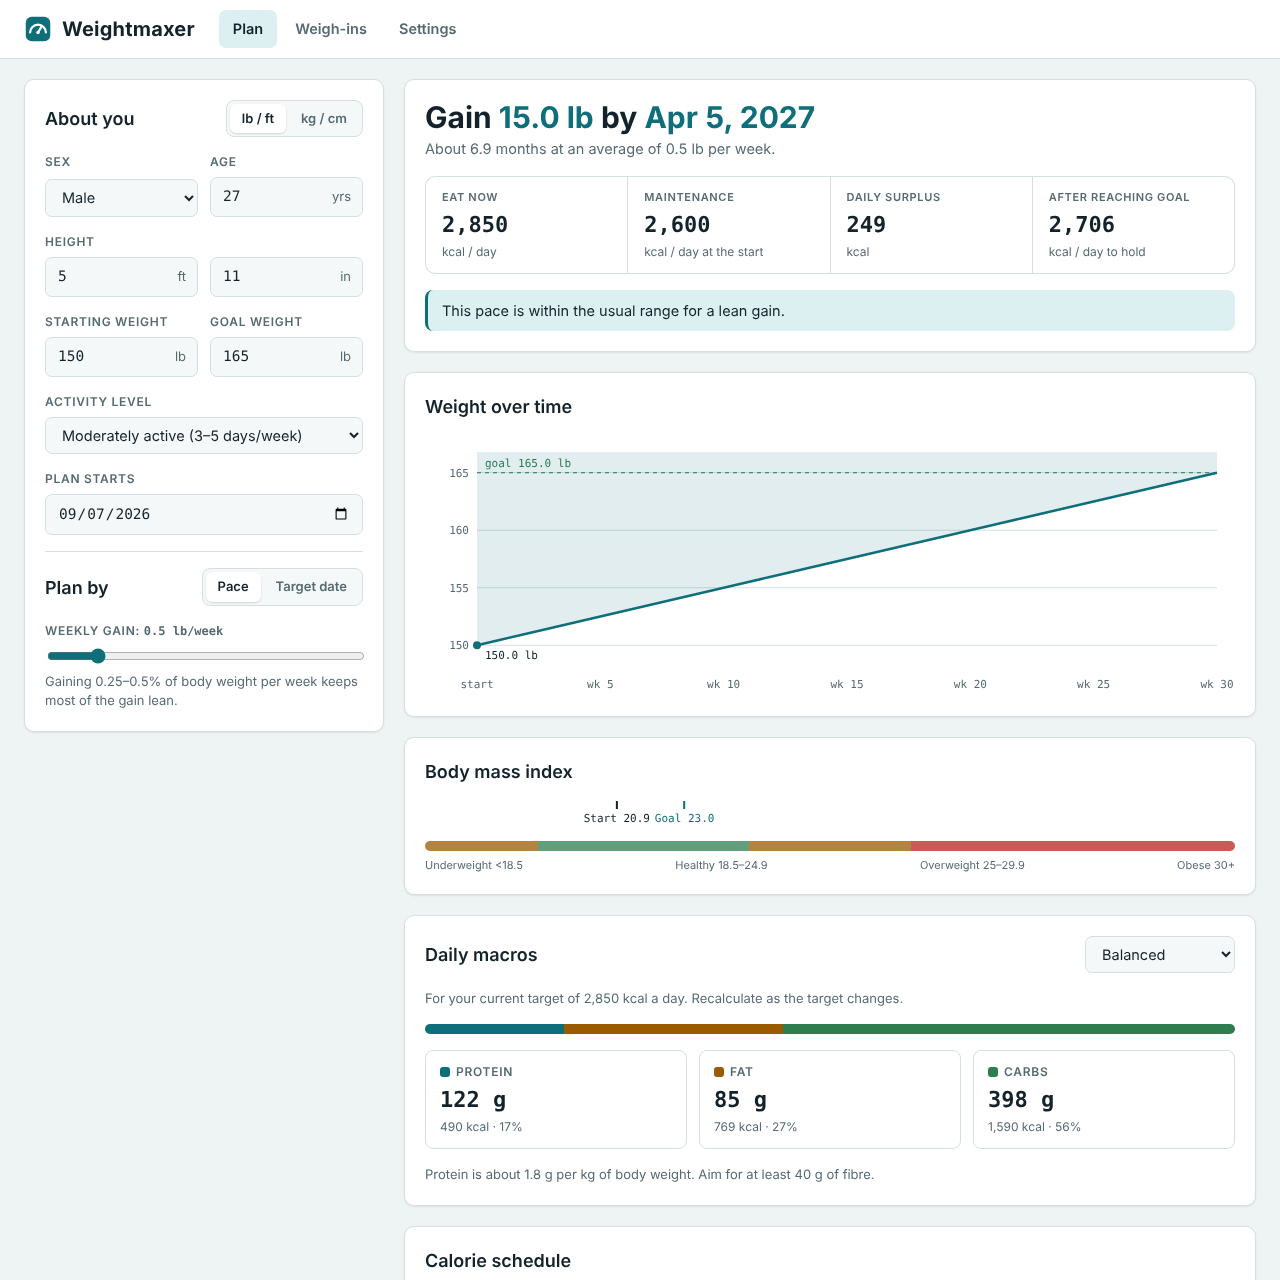
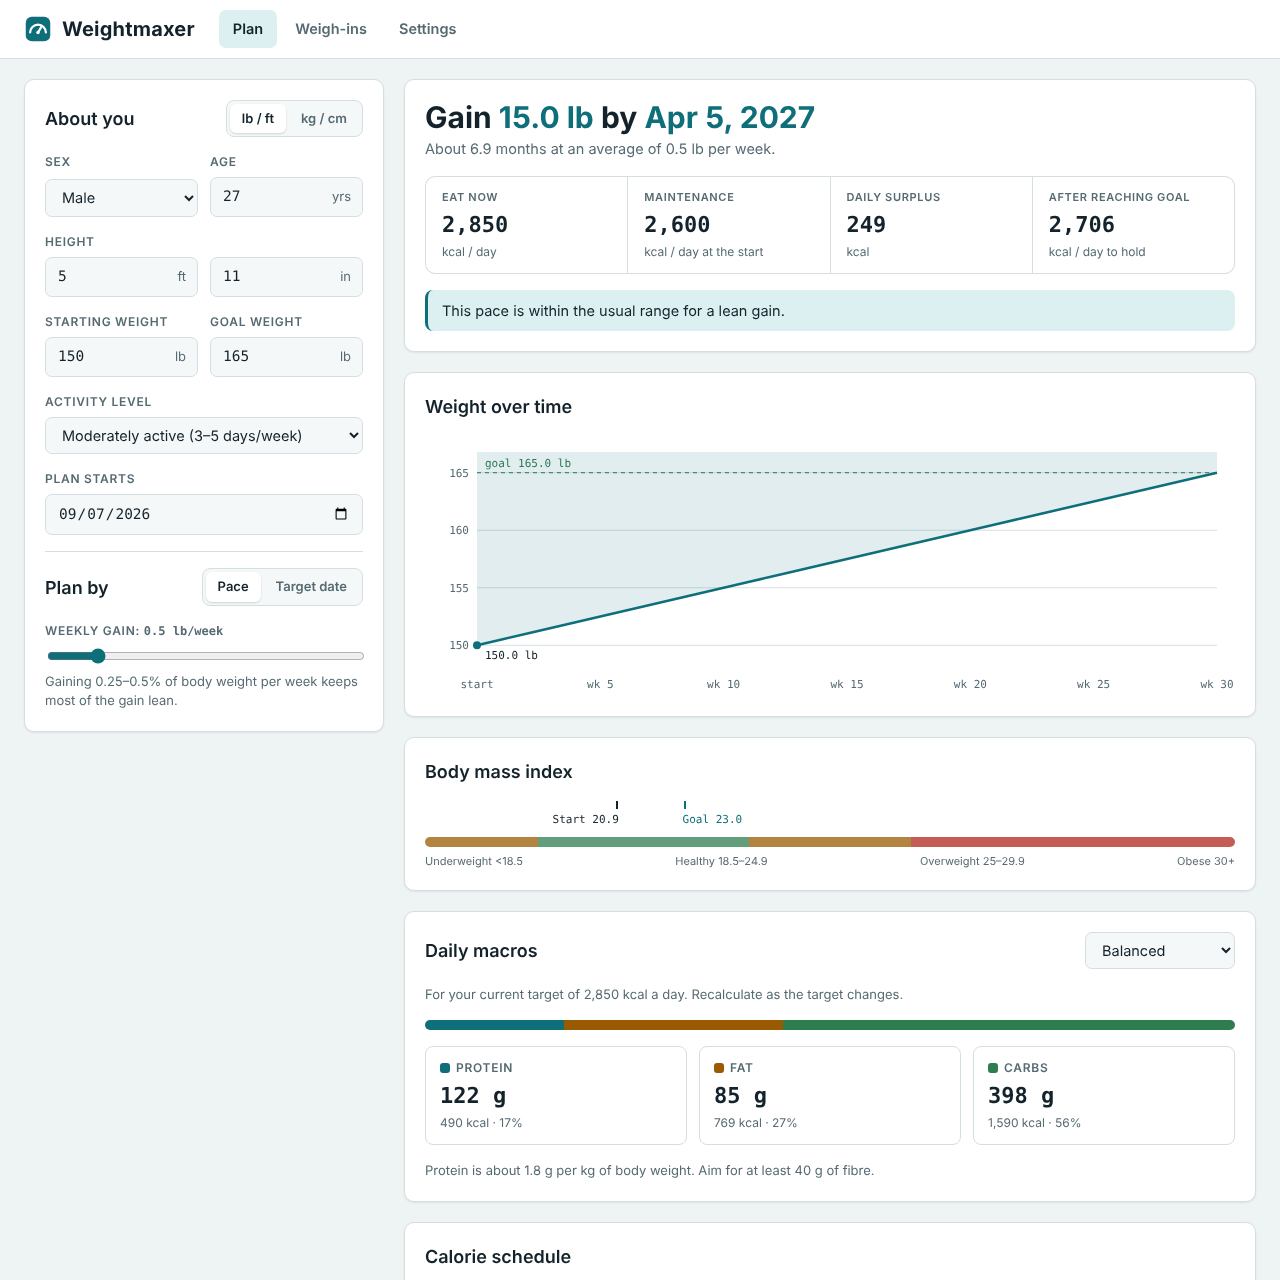
Fix the website layout on phones
On a portrait iPhone the page was wider than the screen: the Settings tab
was cut off, tabs wrapped, date fields stuck out of their cards and the
BMI labels overlapped. Add phone breakpoints (two-row top bar, 16px
inputs, single-column details, a schedule that fits without the Burn
column, stacked macros), iOS date-field rules, and BMI labels that turn
outwards when close. A new 390px browser test fails on any of these.

Claude-Session: https://claude.ai/code/session_01AkZzWFsDzWiP4oMFcRPxYM

Changed region(s): [[0.3125, 0.625, 0.9688, 1.0]]

diff --git a/web/app.css b/web/app.css
@@ -46,7 +46,7 @@ h2 { font-family: var(--font-display); font-weight: 600; font-size: 18px; margin
 .brand-name { font-family: var(--font-display); font-weight: 700; font-size: 20px; letter-spacing: 0.01em; }
 .tabs { display: flex; gap: 4px; }
 .tabs button {
-  font: inherit; font-weight: 600; border: 0; background: transparent; color: var(--muted);
+  font: inherit; font-weight: 600; white-space: nowrap; border: 0; background: transparent; color: var(--muted);
   padding: 8px 14px; border-radius: 7px; cursor: pointer;
 }
 .tabs button:hover { background: var(--sunken); color: var(--fg); }
@@ -86,6 +86,7 @@ button:focus-visible, input:focus-visible, select:focus-visible { outline: 2px s
 .row { display: grid; grid-template-columns: 1fr 1fr; gap: 12px; }
 .inp { position: relative; }
 .inp input, select, input[type="date"] {
+  min-width: 0;
   width: 100%; font: inherit; font-family: var(--font-mono); font-size: 14.5px;
   padding: 8px 44px 8px 12px; border: 1px solid var(--line); border-radius: 7px; background: var(--sunken); color: var(--fg);
 }
@@ -135,6 +136,8 @@ th { text-align: left; font-size: 11.5px; text-transform: uppercase; letter-spac
 td { padding: 7px 10px; border-bottom: 1px solid var(--line); font-family: var(--font-mono); white-space: nowrap; }
 td:first-child, th:first-child { padding-left: 0; }
 tr:last-child td { border-bottom: 0; }
+.goal-row td { font-weight: 600; color: var(--good); }
+.unit-head { display: none; }
 .n { text-align: right; }
 
 .log-row { display: grid; grid-template-columns: 1fr auto auto auto; gap: 16px; align-items: center; padding: 8px 0; border-bottom: 1px solid var(--line); font-family: var(--font-mono); font-variant-numeric: tabular-nums; }
@@ -147,9 +150,13 @@ tr:last-child td { border-bottom: 0; }
 .bmi-scale { display: grid; gap: 6px; }
 .bmi-bar { height: 10px; border-radius: 5px; display: flex; overflow: hidden; }
 .bmi-bar span { height: 100%; opacity: .75; }
-.bmi-marks { position: relative; height: 34px; }
-.bmi-mark { position: absolute; top: 0; transform: translateX(-50%); font-family: var(--font-mono); font-size: 11px; text-align: center; white-space: nowrap; }
-.bmi-mark::before { content: ""; display: block; width: 2px; height: 8px; margin: 0 auto 2px; background: currentColor; }
+.bmi-marks { position: relative; height: 30px; }
+.bmi-mark { position: absolute; top: 0; width: 0; height: 100%; font-family: var(--font-mono); font-size: 11px; color: var(--fg); }
+.bmi-mark .tick { position: absolute; left: -1px; top: 0; width: 2px; height: 8px; background: currentColor; }
+.bmi-mark .lab { position: absolute; top: 11px; white-space: nowrap; }
+.bmi-mark .lab[data-align="center"] { left: 0; transform: translateX(-50%); }
+.bmi-mark .lab[data-align="start"] { left: -2px; }
+.bmi-mark .lab[data-align="end"] { right: -2px; }
 .bmi-legend { display: flex; justify-content: space-between; font-size: 11px; color: var(--muted); gap: 8px; flex-wrap: wrap; }
 
 .kv { display: grid; grid-template-columns: 160px minmax(0, 1fr); gap: 12px; }
@@ -175,3 +182,40 @@ tr:last-child td { border-bottom: 0; }
 #macro { width: auto; min-width: 150px; }
 a.btn { text-decoration: none; display: inline-block; }
 label.btn { display: inline-block; }
+
+/* iPhone and iPad Safari: date fields have a built-in minimum width and centred text,
+   which pushed them out of their cards and widened the page. */
+@supports (-webkit-touch-callout: none) {
+  input[type="date"] { -webkit-appearance: none; appearance: none; display: block; min-height: 2.6em; }
+  input[type="date"]::-webkit-date-and-time-value { text-align: left; }
+}
+
+/* Phones (portrait) */
+@media (max-width: 640px) {
+  .topbar { flex-wrap: wrap; gap: 8px 12px; padding: 10px max(16px, env(safe-area-inset-right, 0px)) 8px max(16px, env(safe-area-inset-left, 0px)); }
+  .tabs { width: 100%; }
+  .tabs button { flex: 1 1 0; padding: 8px 6px; }
+  main { padding: 16px max(16px, env(safe-area-inset-right, 0px)) 32px max(16px, env(safe-area-inset-left, 0px)); }
+  .banner { margin: 12px 16px 0; }
+  .grid, .results, .stack { gap: 16px; }
+  .card { padding: 16px; gap: 14px; }
+  .headline .big { font-size: 26px; }
+  .inp input, select, input[type="date"] { font-size: 16px; } /* 16px stops Safari zooming in on focus */
+  .kv { grid-template-columns: minmax(0, 1fr); gap: 2px; }
+  .log-row { grid-template-columns: minmax(0, 1fr) auto auto auto; gap: 10px; font-size: 13.5px; }
+  .log-row .delta { min-width: 0; }
+  .stat { padding: 10px 12px; }
+  .stat .v { font-size: 20px; }
+}
+@media (max-width: 480px) {
+  .burn { display: none; }
+  .unit { display: none; }
+  .unit-head { display: inline; }
+  th, td { padding: 7px 6px; font-size: 13px; }
+  th { font-size: 10.5px; }
+  .bmi-legend { display: grid; grid-template-columns: 1fr 1fr; gap: 2px 8px; }
+  .bmi-legend span:nth-child(even) { text-align: right; }
+  .macros { grid-template-columns: minmax(0, 1fr); }
+  .macro { grid-template-columns: auto 1fr auto; align-items: baseline; gap: 10px; }
+  .macro .g { font-size: 18px; }
+}

diff --git a/web/app.js b/web/app.js
@@ -150,7 +150,7 @@
   function clearPlan(head, sub) {
     $("head").textContent = head;
     $("subhead").textContent = sub || "";
-    ["stats", "alerts", "table"].forEach((i) => ($(i).innerHTML = ""));
+    ["stats", "alerts", "table", "schedule-goal"].forEach((i) => ($(i).innerHTML = ""));
     $("chart").innerHTML = "";
     lastSim = null;
     $("macro-card").hidden = true;
@@ -273,12 +273,15 @@
     const rows = w.filter((r, i) => i % step === 0 && !r.end);
     const last = w[w.length - 1];
     const s = startDate();
-    let h = `<thead><tr><th>Week</th><th>Date</th><th class="n">Weight</th><th class="n">Eat</th><th class="n">Burn</th></tr></thead><tbody>`;
+    // The Burn column is hidden on phones (.burn) so Eat always fits on screen.
+    let h = `<thead><tr><th>Week</th><th>Date</th><th class="n">Weight</th><th class="n">Eat<span class="unit-head"> kcal</span></th><th class="n burn">Burn</th></tr></thead><tbody>`;
     rows.forEach((r) => {
-      h += `<tr><td>${r.week}</td><td>${fmtDate(addDays(s, r.week * 7))}</td><td class="n">${fmtW(r.kg)}</td><td class="n">${fmtN(r.intake)} kcal</td><td class="n">${fmtN(r.tdee)} kcal</td></tr>`;
+      h += `<tr><td>${r.week}</td><td>${fmtDate(addDays(s, r.week * 7))}</td><td class="n">${fmtW(r.kg)}</td><td class="n">${fmtN(r.intake)}<span class="unit"> kcal</span></td><td class="n burn">${fmtN(r.tdee)} kcal</td></tr>`;
     });
-    h += `<tr><td>${last.week.toFixed(1)}</td><td>${fmtDate(addDays(s, Math.round(last.week * 7)))}</td><td class="n">${fmtW(last.kg)}</td><td class="n" colspan="2">Goal reached · maintain at ${fmtN(last.tdee)} kcal</td></tr>`;
+    const goalDay = addDays(s, Math.round(last.week * 7));
+    h += `<tr class="goal-row"><td>${last.week.toFixed(1)}</td><td>${fmtDate(goalDay)}</td><td class="n">${fmtW(last.kg)}</td><td class="n">${fmtN(last.tdee)}<span class="unit"> kcal</span></td><td class="n burn">${fmtN(last.tdee)} kcal</td></tr>`;
     $("table").innerHTML = h + "</tbody>";
+    $("schedule-goal").textContent = `Goal reached ${fmtDate(goalDay)}. From then on, eat about ${fmtN(last.tdee)} kcal a day to stay at ${fmtW(last.kg)}.`;
   }
 
   function niceStep(raw) {
@@ -330,9 +333,21 @@
     const pos = (b) => Math.min(100, Math.max(0, ((b - min) / (max - min)) * 100));
     const bands = [[15, 18.5, "var(--warn)"], [18.5, 25, "var(--good)"], [25, 30, "var(--warn)"], [30, 40, "var(--bad)"]];
     $("bmi-bar").innerHTML = bands.map(([a, b, c]) => `<span style="width:${pos(b) - pos(a)}%;background:${c}"></span>`).join("");
-    $("bmi-marks").innerHTML =
-      `<div class="bmi-mark" style="left:${pos(now)}%">Start ${now.toFixed(1)}</div>` +
-      `<div class="bmi-mark" style="left:${pos(goal)}%;color:var(--accent)">Goal ${goal.toFixed(1)}</div>`;
+    // Labels sit centred under their tick, but turn outwards when the two are
+    // close together or near an edge, so they never overlap or get cut off.
+    const width = $("bmi-marks").clientWidth || 600;
+    const marks = [{ b: now, text: `Start ${now.toFixed(1)}`, color: "" }, { b: goal, text: `Goal ${goal.toFixed(1)}`, color: "color:var(--accent);" }];
+    const close = (Math.abs(pos(now) - pos(goal)) / 100) * width < 96;
+    const [lo, hi] = now <= goal ? marks : [marks[1], marks[0]];
+    lo.align = close ? "end" : "center";
+    hi.align = close ? "start" : "center";
+    for (const m of marks) {
+      const px = (pos(m.b) / 100) * width;
+      if (px < 48) m.align = "start";
+      else if (width - px < 48) m.align = "end";
+    }
+    $("bmi-marks").innerHTML = marks.map((m) =>
+      `<div class="bmi-mark" style="${m.color}left:${pos(m.b)}%"><span class="tick"></span><span class="lab" data-align="${m.align}">${m.text}</span></div>`).join("");
   }
 
   // ---------- weigh-ins ----------

diff --git a/web/index.html b/web/index.html
@@ -141,6 +141,7 @@
           <h2>Calorie schedule</h2>
           <p class="hint" id="schedule-hint">Your body burns less as you get lighter, so the daily target drops over time. Recheck it every few weeks.</p>
           <div class="table-wrap"><table id="table"></table></div>
+          <p class="hint" id="schedule-goal"></p>
         </div>
         <p class="note"><strong>How this works.</strong> Calories burned at rest come from the Mifflin–St Jeor equation, multiplied by your activity level. A pound of body fat is treated as about 3,500 kcal (7,700 kcal per kg). Daily intake never goes below the lowest daily calories you set (1,200 kcal for women or 1,500 kcal for men unless you change it, and never below 800); if the plan would need less, the timeline is stretched instead. Eating less than the standard minimum is best done with a doctor's supervision. Real results vary with water weight, muscle, sleep and how accurately food is tracked. This is an estimate, not medical advice. Talk to a doctor before a large or fast weight change. Macro targets use common sports-nutrition ranges: protein of 1.6–2.2 g per kg, fat of at least 0.6 g per kg, and fibre of 14 g per 1,000 kcal.</p>
       </section>

diff --git a/DEVELOPMENT_HANDOFF.md b/DEVELOPMENT_HANDOFF.md
@@ -96,3 +96,14 @@ Read [`AGENTS.md`](AGENTS.md) first. This file records the current state for the
   `scripts/build_site.py`, CI deployment to Pages after all checks, docs and tests.
 - Same approvals as the task above (push, pull request, merge after checks); the request
   itself asked for publication on GitHub Pages. No `VERSION` bump: website-only change.
+
+### 2026-11-05: phone layout fixes for the website
+
+- Reported from an iPhone: page wider than the screen, Settings tab cut off, tabs wrapping,
+  date fields sticking out of their cards, overlapping BMI labels.
+- Fixed in `web/app.css` and `web/app.js`: phone breakpoints (two-row top bar, 16 px inputs,
+  single-column details, schedule without the Burn column, stacked macros), iOS date-field
+  rules, and BMI labels that turn outwards when close. A 390 px browser test fails on any
+  side-scrolling, cut-off control, wrapped tab, overlapping label or small text field.
+- The Windows app picks up the same CSS in its next release; no `VERSION` bump for this
+  website fix. Same approvals as above (push, pull request, merge after checks).

diff --git a/AGENTS.md b/AGENTS.md
@@ -95,6 +95,12 @@ node tests/browser/screenshots.cjs                        # recapture docs/image
   asleep counts toward the five-minute interval.
 - Keep update checks within GitHub's 60 unauthenticated requests per hour per IP:
   ETag caching, pause on low remaining limit, honour `Retry-After`.
+- The website is used on phones. Keep it working at 390 px wide: the browser test
+  "phone width" fails if the page or a table needs side-scrolling, a tab wraps, a control
+  sticks out of its card, the BMI labels overlap, or a text field is under 16 px (Safari
+  zooms in on focus). iPhone Safari date fields have a built-in minimum width; keep the
+  `@supports (-webkit-touch-callout: none)` rules in `web/app.css`. Headless Chromium can't
+  reproduce that, so check real-phone reports against screenshots.
 - The page scrolls as a whole. Don't add nested vertical scroll areas; the
   browser test fails on them.
 - Screenshots use fictional data only and must be recaptured in the same pull

diff --git a/README.md b/README.md
@@ -47,7 +47,7 @@ Get **`Weightmaxer-win-x64.zip`** from the [latest release](https://github.com/T
 
 All versions, including any preview builds, are on the [releases page](https://github.com/TechSavage1989/weightmaxer/releases).
 
-**No install needed:** the [web version](https://techsavage1989.github.io/weightmaxer/) has the same planner, macros and weigh-in log in any modern browser, on any device. It saves your data in that browser only; use **Settings › Export data** to keep a copy or move it to another device.
+**No install needed:** the [web version](https://techsavage1989.github.io/weightmaxer/) has the same planner, macros and weigh-in log in any modern browser, on phones as well as computers. It saves your data in that browser only; use **Settings › Export data** to keep a copy or move it to another device.
 
 ## Requirements
 
